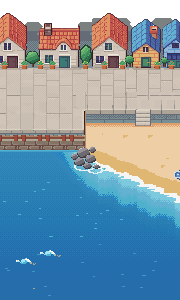
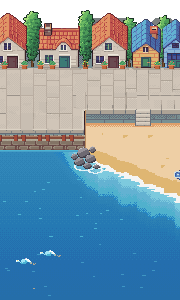
항구 도시: 집 사이 틈 나무 4그루를 지붕 뒤로 솟는 키 큰 나무로 새로 그림 (잎 덩이 명암·잎 결, 화분은 앞) (경완 '좀 높이가 긴 나무들을 퀄 높여서 세워볼까')
Claude-Session: https://claude.ai/code/session_012Z4iFifcZH9cfXSxsF9mWo

diff --git a/assets_src/maps/mix/tall_trees.py b/assets_src/maps/mix/tall_trees.py
@@ -1,0 +1,79 @@
+# 항구 도시: 집 사이 틈 나무 4그루를 키 큰 나무로 새로 (잎 덩이 여러 개·빛 방향 명암·잎 결·디더, 지붕 뒤로 솟게)
+# (경완 '좀 높이가 긴 나무들을 퀄 높여서 세워볼까')
+# 쓰는 법: python3 tall_trees.py 꾸민판(ec9e0710) 장식전판(c6c3335d) 출력
+import sys, math, random
+from PIL import Image
+im=Image.open(sys.argv[1]).convert('RGBA'); p=im.load()
+O=Image.open(sys.argv[2]).convert('RGBA').load()
+W,H=im.size
+hx=lambda c:tuple(int(c[i:i+2],16) for i in (0,2,4))+(255,)
+# 1) 예전 둥근 나무 지우기 (화분 잎은 남김)
+OLD={hx(c) for c in ['7cc27a','5aa86a','3f8a5a','2f6a46','24402e','6a4a30','4e3622']}
+POTS=[4,24,40,52,85,104,122,157,171]
+for y in range(10,69):
+  for x in range(W):
+    if p[x,y] in OLD and not (y>=60 and any(abs(x-q)<=3 for q in POTS)): p[x,y]=O[x,y]
+# 둘째·셋째 집 틈은 장식 전에도 나무가 있어 첫째 틈 본보기로 (deco2 와 같게)
+for y in range(15,60):
+  for x in range(79,92):
+    if p[x,y] in OLD or p[x,y][3]==0: p[x,y]=O[x-53,y]
+# 2) 뒤 배경 칸 = 하늘(투명) + 뒤 건물 실루엣 색. 나무는 여기에만 그려져 집·화분 뒤로 감
+BG={(101,108,119),(120,144,147),(123,128,128),(154,146,138)}
+isbg=lambda x,y: y<67 and (p[x,y][3]==0 or p[x,y][:3] in BG)
+# 3) 나무
+OUT,D2,D1,M,L,HI='1c3426','2a5a3e','367a4c','4c9a58','6cba62','a6dc7c'
+BAYER=[[0,8,2,10],[12,4,14,6],[3,11,1,9],[15,7,13,5]]
+def tall(cx,base,top,w,seed,lean=0):
+  rnd=random.Random(seed)
+  L_=Image.new('RGBA',(W,H)); q=L_.load()
+  # 잎 덩이: 아래에서 위로, 위로 갈수록 좁게
+  hgt=base-8-top; cl=[]
+  n=max(8,int(hgt/3.2))
+  for i in range(n):
+    t=i/(n-1)
+    cy=base-10-t*(hgt-4)
+    r=w*(.35+.65*math.sin(math.pi*min(1,(1-t)*.8+.2)))*.55+1.6   # 가운데 아래가 가장 넓은 물방울 꼴
+    for s_ in (-1,1) if 0<i<n-1 else (0,):
+      cl.append((cx+lean*t+s_*r*.5+rnd.uniform(-1,1),cy+rnd.uniform(-1,1),r*(.75 if s_ else 1)))
+  def inside(x,y,grow=0):
+    best=None
+    for (ax,ay,r) in cl:
+      e=math.hypot((x-ax),(y-ay)*1.08)-(r+grow+1.0*math.sin(math.atan2(y-ay,x-ax)*5+ax*1.7))
+      if e<=0 and (best is None or ay<best[1]): best=(ax,ay,r)
+    return best
+  # 줄기·가지
+  for y in range(base-int(hgt*.45),base+1):
+    for k,c in ((0,'5a3a24'),(1,'7a5434'),(2,'3e2818')):
+      if y>base-4 or k<2: q[cx+k-1,y]=hx(c)
+  for (dx,y0) in ((-1,base-9),(1,base-13)):
+    for i in range(4): q[cx+dx*(i//2+1)+(0 if dx<0 else 1),y0-i]=hx('5a3a24')
+  for y in range(top-3,base):
+    for x in range(int(cx-w-4),int(cx+w+5)):
+      c=inside(x,y)
+      if c:
+        ax,ay,r=c
+        lx,ly=(x-ax)/r,(y-ay)/r                     # 덩이 안 자리
+        gx=(x-cx-lean*.5)/(w+1); gy=(y-top)/(base-8-top)*2-1   # 나무 전체 자리
+        sh=gx*.7+gy*.55-.1                                # 전체: 왼쪽 위가 밝음
+        sh+=(lx*.3+ly*.45)*.6                             # 덩이마다 살짝 둥글게
+        if ly>.55: sh+=.35                                # 덩이 밑 그늘
+        sh+=(BAYER[y%4][x%4]/16-.5)*.15
+        TONES=[HI,L,M,D1,D2]
+        col=TONES[0 if sh<-.95 else 1 if sh<-.4 else 2 if sh<.15 else 3 if sh<.65 else 4]
+        q[x,y]=hx(col)
+      elif inside(x,y,1.1): q[x,y]=hx(OUT)
+  # 잎 결: 밝은 쪽에 1×2 잎 끝, 어두운 쪽에 짙은 점
+  for _ in range(int(w*hgt*.06)):
+    x=rnd.randint(int(cx-w),int(cx+w)); y=rnd.randint(top,base-8)
+    if q[x,y][3] and q[x,y+1][3] and q[x,y]!=hx(OUT):
+      if q[x,y] in (hx(L),hx(M)) and q[x,y-1][:3]!=hx(OUT)[:3]: q[x,y]=hx(HI if q[x,y]==hx(L) else L)
+      elif q[x,y] in (hx(D1),hx(D2)): q[x,y]=hx(D2 if q[x,y]==hx(D1) else OUT)
+  for y in range(H):
+    for x in range(W):
+      if q[x,y][3] and (isbg(x,y) or (abs(x-cx)<=1 and y>=base-4 and y<=base)):
+        p[x,y]=q[x,y]
+tall(32,66,14,8,1,-0.5)
+tall(85,66,12,7,2,0.5)
+tall(129,66,20,6,3,0)
+tall(163,66,18,6,4,0.5)
+im.save(sys.argv[3])
